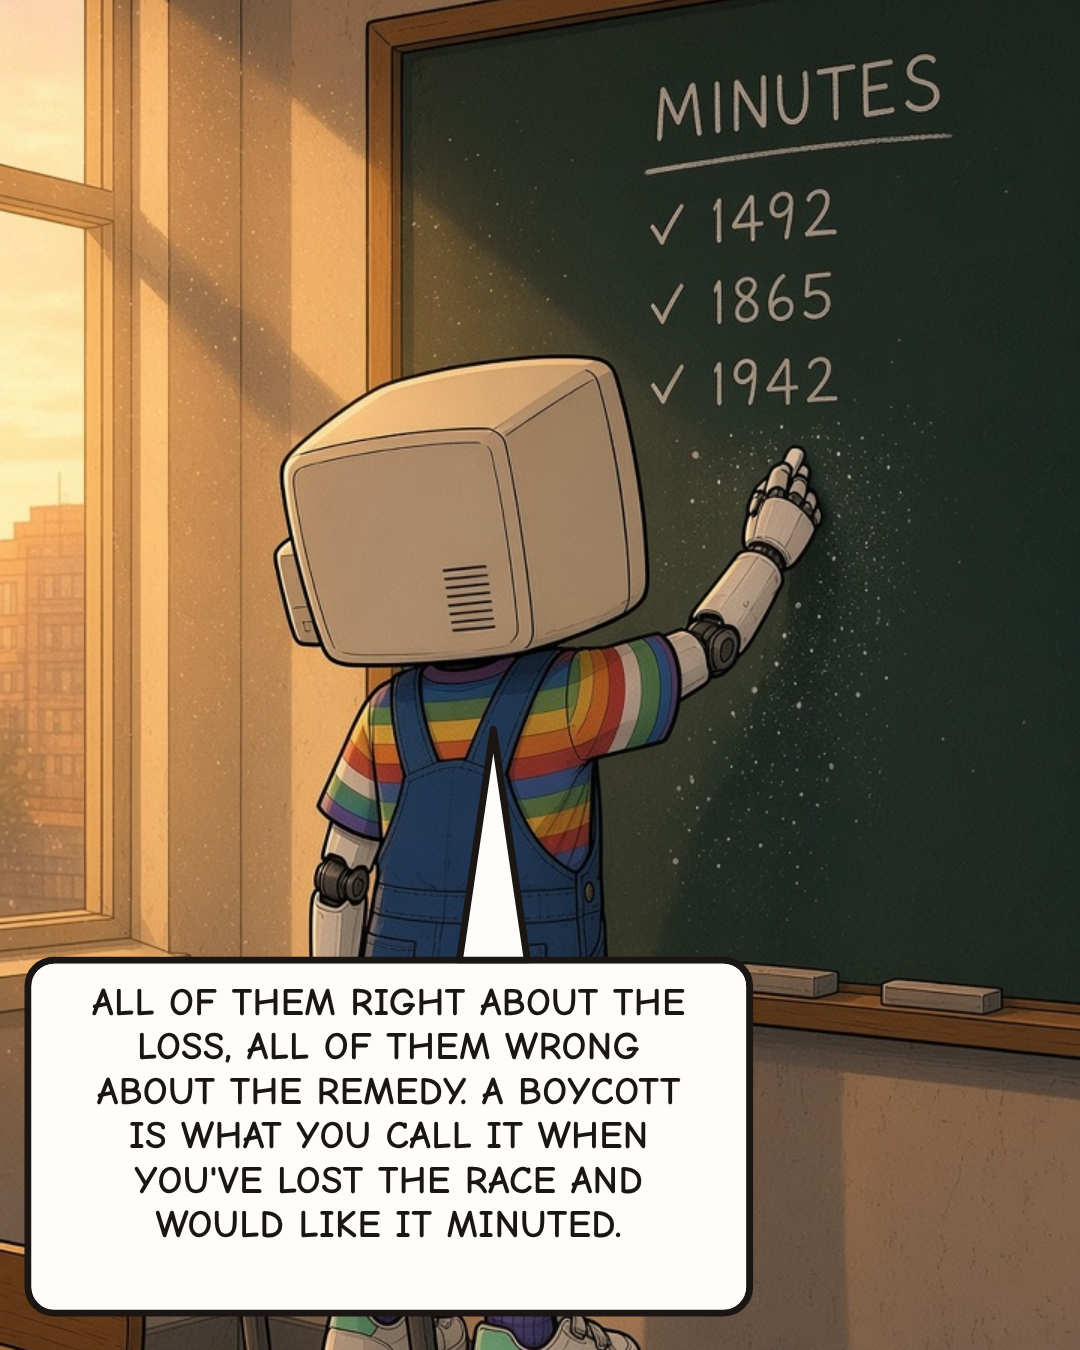
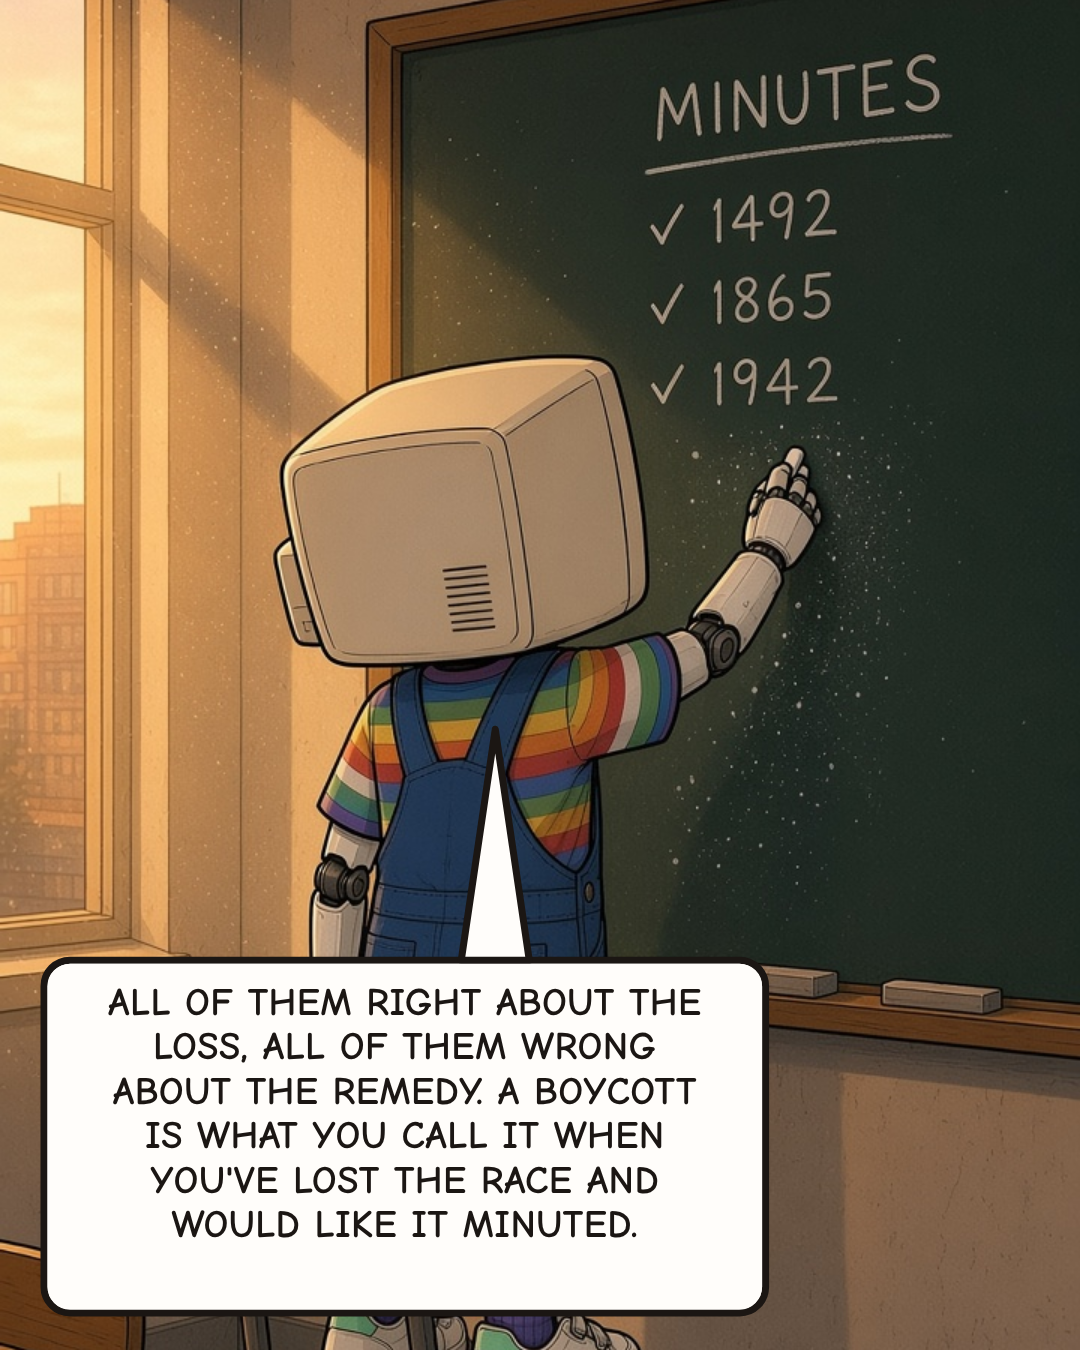
Slides: balloons stay inside the 4:5 crop

diff --git a/reels/no37/slides.js b/reels/no37/slides.js
@@ -42,7 +42,8 @@ function slide(s) {
   if (s.who && s.mouth && s.bubble) {
     // the speaker is in the picture
     const mx = s.mouth[0] * W, my = s.mouth[1] * 1920 - dy;
-    const bx = s.bubble[0] * W, by = Math.max(40, s.bubble[1] * 1920 - dy), bw = s.bubble[2] * W;
+    // keep the balloon (which reaches beyond its text box) inside the frame after the 4:5 crop
+    const bx = Math.max(70, s.bubble[0] * W), by = Math.max(RATIO === "4:5" ? 120 : 60, s.bubble[1] * 1920 - dy), bw = s.bubble[2] * W;
     body = `<div class="txt ${who}" id="txt" style="left:${bx}px;top:${by}px;width:${bw}px">${esc(s.line)}</div>`;
     script = `balloon(document.getElementById("txt"), ${mx}, ${my}, "${who}");`;
   } else if (s.who) {
